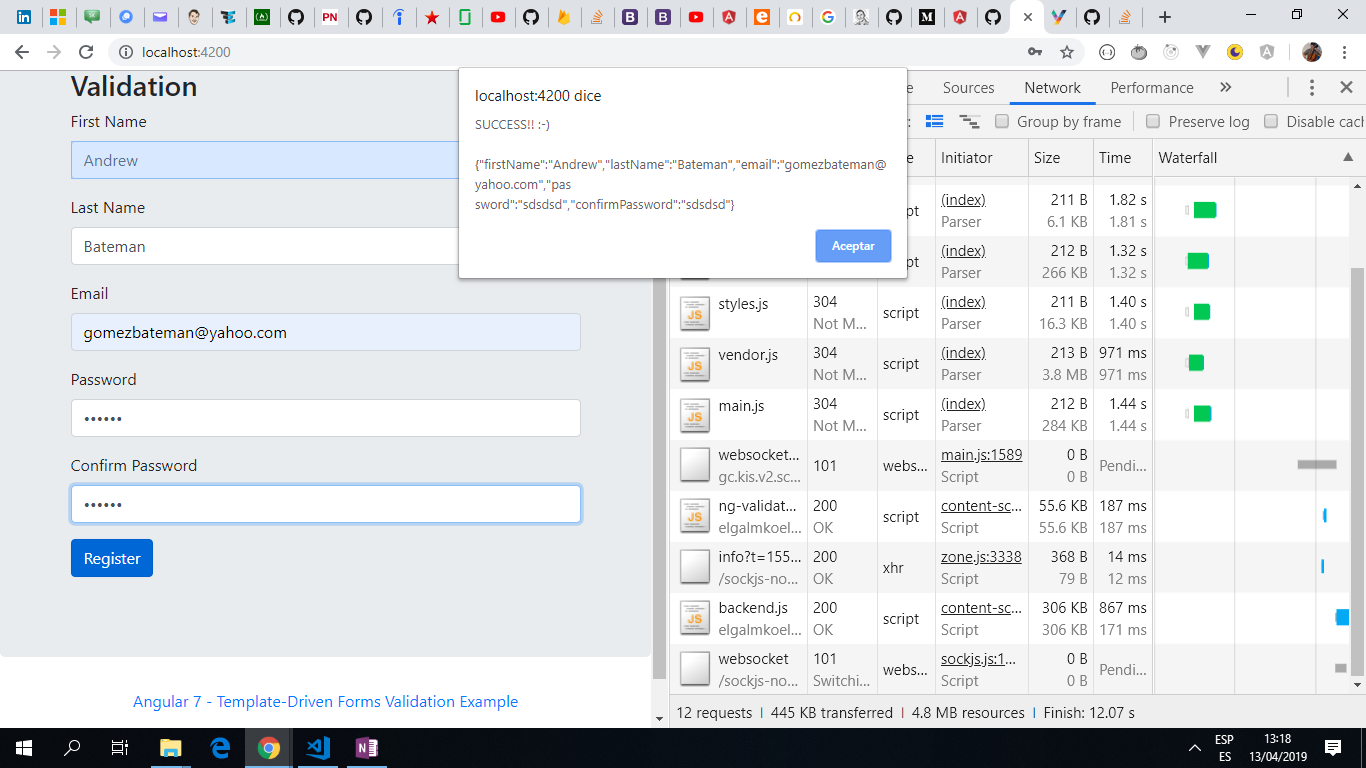
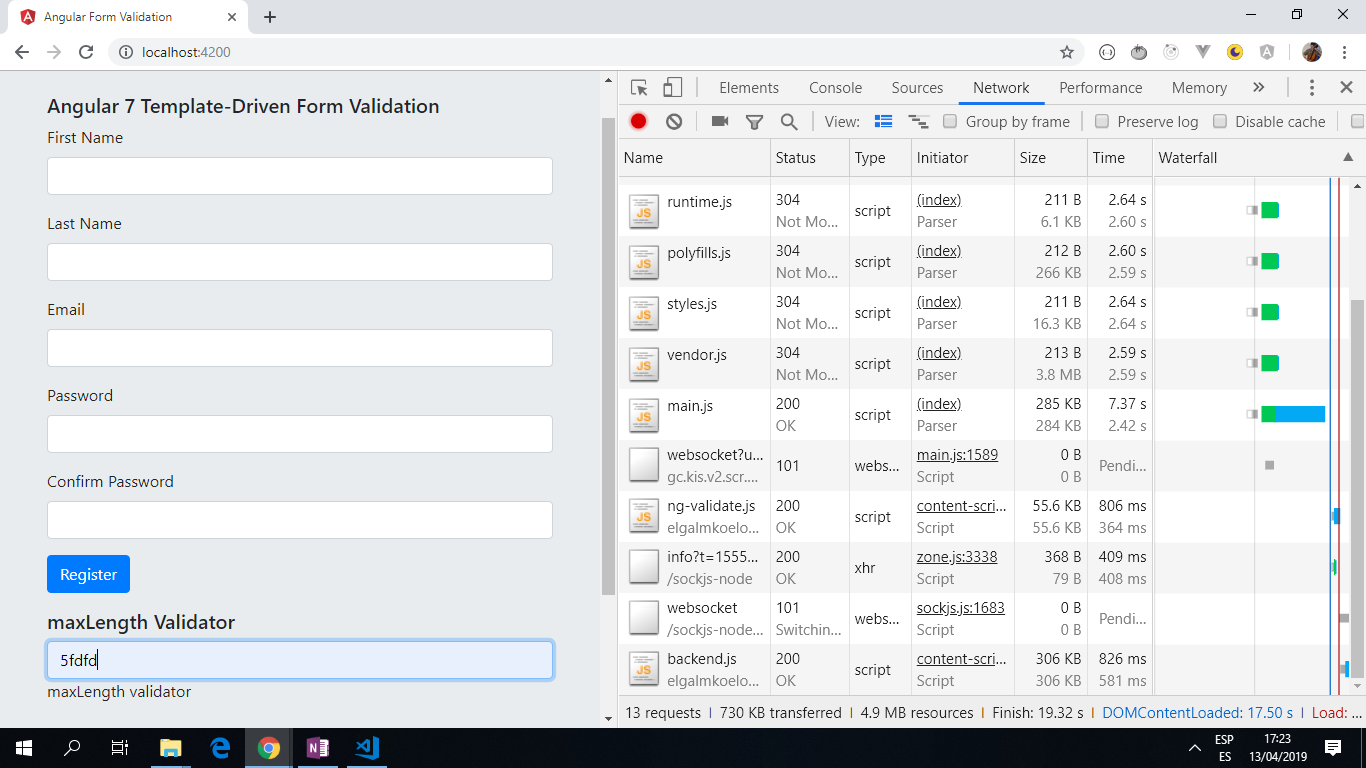
added maxLength div, minor code and readme updates

diff --git a/src/app/app.component.html b/src/app/app.component.html
@@ -9,7 +9,8 @@ first time, this is controlled with the f.submitted property of the #f="ngForm" 
   <div class="container">
     <div class="row">
       <div class="col-md-8 offset-md-2">
-        <h3>Angular 7 Template-Driven Form Validation</h3>
+
+        <h5>Angular 7 Template-Driven Form Validation</h5>
         <form name="form" (ngSubmit)="f.form.valid && onSubmit()" #f="ngForm" [mustMatch]="['password', 'confirmPassword']" novalidate>
           <div class="form-group">
             <label for="firstName">First Name</label>
@@ -22,7 +23,7 @@ first time, this is controlled with the f.submitted property of the #f="ngForm" 
               [ngClass]="{ 'is-invalid': f.submitted && firstName.invalid }" 
               required
             />
-            <div *ngIf="f.submitted && firstName.invalid" class="invalid-feedback">
+            <div *ngIf="f.submitted && firstName.invalid" class="invalid-feedback ">
               <div *ngIf="firstName?.errors.required">First Name is required</div>
             </div>
           </div>
@@ -61,6 +62,16 @@ first time, this is controlled with the f.submitted property of the #f="ngForm" 
             <button class="btn btn-primary">Register</button>
           </div>
         </form>
+        <h5>maxLength Validator</h5>
+        <form>
+          <div class="md-form">
+            <input mdbInput mdbValidate name="input" type="text" id="form3" class="form-control" [(ngModel)]="maxLength" #input="ngModel" required maxlength="5">
+            <label for="form3">maxLength validator</label>
+            <div *ngIf="input.invalid && (input.dirty || input.touched)" [ngClass]="{ 'is-invalid': f.submitted && password.invalid }" class="invalid-feedback">Input invalid</div>
+            <div *ngIf="input.valid && (input.dirty || input.touched)" class="valid-feedback">Input valid</div>
+          </div>
+        </form>
+
       </div>
     </div>
   </div>

diff --git a/src/app/app.module.ts b/src/app/app.module.ts
@@ -3,7 +3,7 @@ array of the @NgModule decorator.
 Also import the custom validation directive { MustMatchDirective }
 from './_helpers/must-match.directive' and include it in
 the declarations array of the @NgModule decorator.*/
-import {NgModule} from '@angular/core';
+import {NgModule, CUSTOM_ELEMENTS_SCHEMA} from '@angular/core';
 import {BrowserModule} from '@angular/platform-browser';
 import {FormsModule} from '@angular/forms';
 
@@ -13,6 +13,7 @@ import {MustMatchDirective} from './_helpers/must-match.directive';
 @NgModule({
   imports: [BrowserModule, FormsModule],
   declarations: [AppComponent, MustMatchDirective],
-  bootstrap: [AppComponent]
+  bootstrap: [AppComponent],
+  schemas: [ CUSTOM_ELEMENTS_SCHEMA ]
 })
 export class AppModule {}

diff --git a/src/app/app.component.ts b/src/app/app.component.ts
@@ -2,7 +2,6 @@
 Enables access to the data entered in the form.*/
 
 import { Component } from '@angular/core';
-
 @Component({
   selector: 'app-root',
   templateUrl: 'app.component.html'
@@ -10,6 +9,7 @@ import { Component } from '@angular/core';
 
 export class AppComponent {
   model: any = {};
+  public maxLength = 5;
 
   onSubmit() {
     alert('SUCCESS!! :-)\n\n' + JSON.stringify(this.model));

diff --git a/README.md b/README.md
@@ -1,6 +1,6 @@
 # Angular Form Validation
 
-This app sets up form validation in Angular 7 using Template-Driven Forms. This is a simple registration form with standard fields for first name, last name, email, password and confirm password.
+This app sets up form validation in Angular 7 using Template-Driven Forms. This is a simple registration form with standard fields for first name, last name, email, password and confirm password. Additional field with maxLength validator added.
 
 *** Note: to open web links in a new window use: _ctrl+click on link_**
 
@@ -17,6 +17,8 @@ This app sets up form validation in Angular 7 using Template-Driven Forms. This 
 
 ## General info
 
+* Input fields of main form have validation so incorrect inputs trigger a red boundary around the input field and an error message.
+
 * Styling of the template-driven forms is done using Bootstrap 4 CSS.
 
 ## Screenshots
@@ -25,15 +27,35 @@ This app sets up form validation in Angular 7 using Template-Driven Forms. This 
 
 ## Technologies
 
-* [Angular v7.0.0](https://angular.io/) & [Angular CLI v7.3.8](https://cli.angular.io/).
+* [Angular v7.2.13](https://angular.io/) & [Angular CLI v7.3.8](https://cli.angular.io/).
 
-* [RxJS Library v6.4.0](https://angular.io/guide/rx-library) used to handle datastreams and propagation of change using observables.
+* [Bootstrap v4.3](https://getbootstrap.com/) component library used.
 
 ## Setup
 
 Run `ng serve` for a dev server. Navigate to `http://localhost:4200/`. The app will automatically reload if you change any of the source files.
 
 ## Code Examples
+
+* div with firstName field entry that is validated using a validator and directive called MustMatch
+
+```typescript
+          <div class="form-group">
+            <label for="firstName">First Name</label>
+            <input
+              class="form-control"
+              name="firstName"
+              [(ngModel)]="model.firstName"
+              #firstName="ngModel"
+              [ngClass]="{ 'is-invalid': f.submitted && firstName.invalid }"
+              required
+            />
+            <div *ngIf="f.submitted && firstName.invalid" class="invalid-feedback ">
+              <div *ngIf="firstName?.errors.required">First Name is required</div>
+            </div>
+          </div>
+
+```
 
 ## Features
 
@@ -45,9 +67,9 @@ Run `ng serve` for a dev server. Navigate to `http://localhost:4200/`. The app w
 
 ## Status & To-Do List
 
-* Status:
+* Status: simple working form with validaton. The maxLength validation div does not provide error message, just limits the field length to 5 characters.
 
-* To-Do: add to commenting. Look into developer tools comment:[DOM] Input elements should have autocomplete attributes (suggested: "new-password"):(More info: `https://goo.gl/9p2vKq)`
+* To-Do: add functionality to form.
 
 ## Inspiration
 
